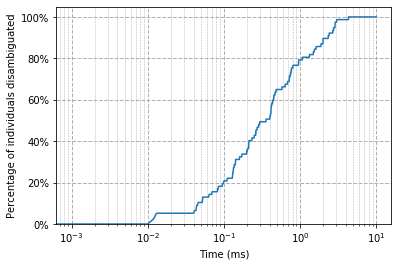
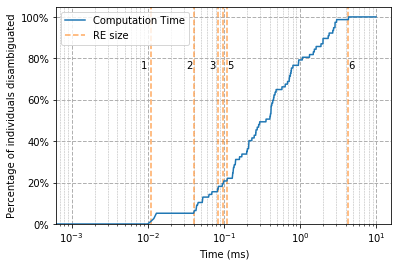
[Chapter3] Update scaleup figure to include RE size

Changed region(s): [[0.1508, 0.0301, 0.603, 0.8421], [0.8744, 0.2105, 0.9045, 0.2707], [0.4824, 0.812, 0.5126, 0.8421]]

diff --git a/Chapter3.tex b/Chapter3.tex
@@ -522,7 +522,7 @@ As this algorithm must be used in a human robot interaction application, we want
 \begin{figure}[hbtp]
 \centering
 \includegraphics[width=0.6\textwidth]{figures/chapter3/scalingupREG.png}
-\caption{Computation times for generating a referring expression on all the 77 objects of the knowledge base representing an three rooms apartment.}
+\caption{Computation times for generating a referring expression on all the 77 objects of the knowledge base representing an three rooms apartment. Orange lines correspond to the minimal size of the RE found at that duration.}
 \label{fig:scalingup}
 \end{figure}
 
